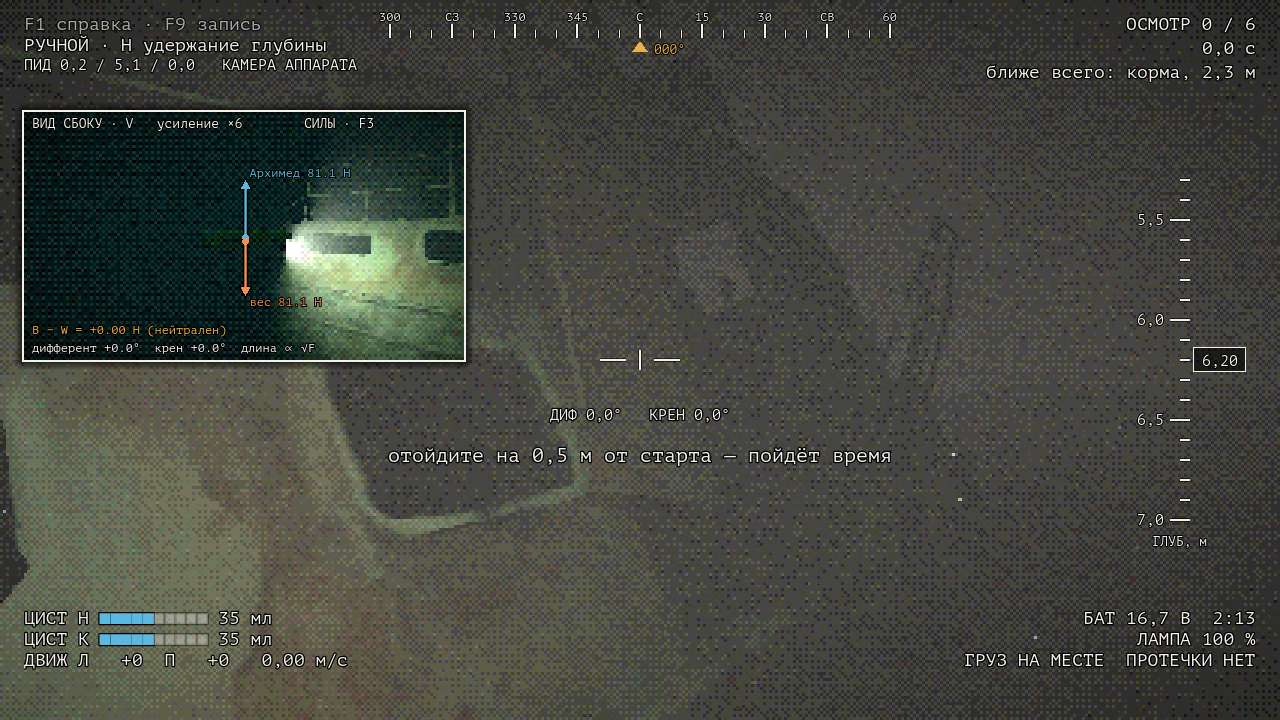
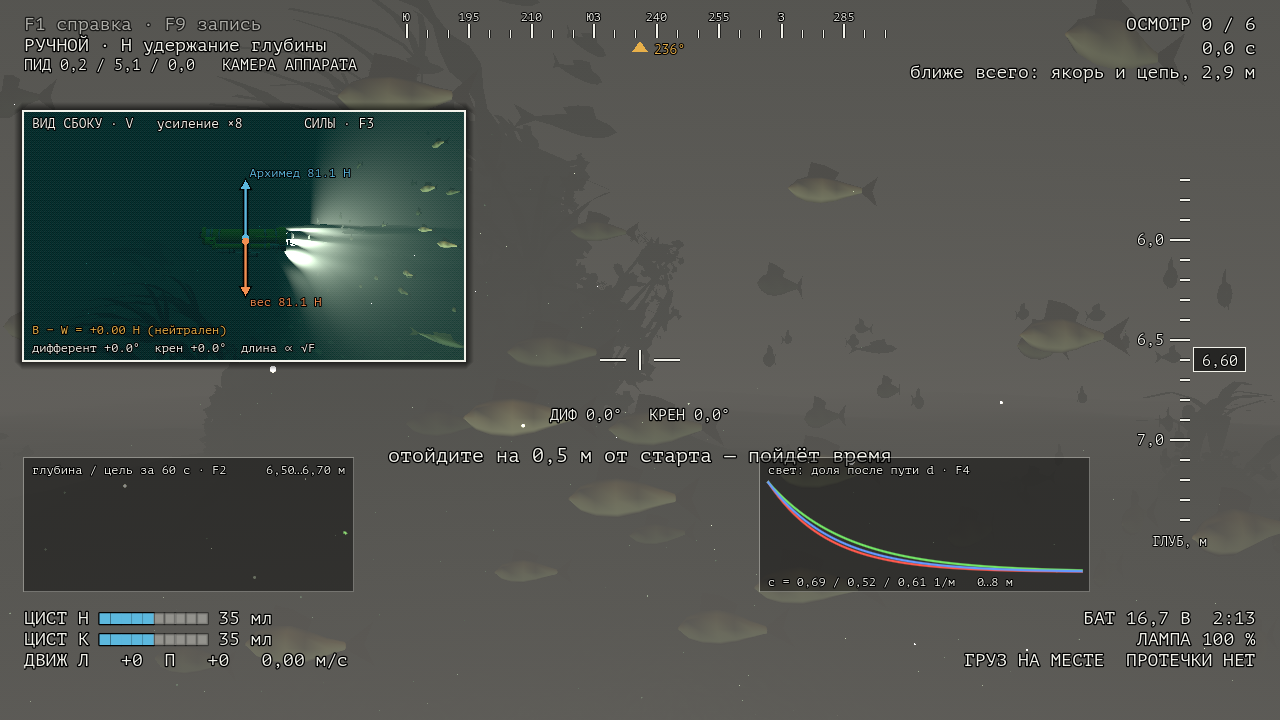
ROV-Sim 1.1.0

diff --git a/README.md b/README.md
@@ -1,6 +1,6 @@
 # ROV-Sim
 
-Версия 1.0.0 · [что нового](CHANGELOG.md)
+Версия 1.1.0 · [что нового](CHANGELOG.md)
 
 **Симулятор настоящего подводного аппарата, где у каждого числа есть источник и проверка.**
 
@@ -8,13 +8,15 @@
 
 ![Бассейн с кольцами: камера аппарата, окошко со стороны с силами](docs/screenshots/01_pool_style.png)
 
-**Скачать для Windows:** [Releases](https://github.com/kholye/ROV-Sim/releases) → `ROV-Sim-1.0.0-windows-x64.zip` (≈100 МБ), распаковать, запустить `ROV-Sim.exe`. Установка не нужна; хватает встроенной видеокарты (60 кадров/с при 1280 × 720 на Ryzen 5 5500U).
+**Скачать для Windows:** [Releases](https://github.com/kholye/ROV-Sim/releases) → `ROV-Sim-1.1.0-windows-x64.zip` (≈120 МБ), распаковать, запустить `ROV-Sim.exe`. Установка не нужна; хватает встроенной видеокарты (60 кадров/с при 1280 × 720 на Ryzen 5 5500U).
+
+**Новое в 1.1:** затонувшее судно стало рифом — обросший корпус, стаи рыб, дно с ямами размыва; граница места — кабель и мутная вода вместо края карты; строже осмотр; три режима управления (научный, автопилот, автопилот + ускорение) и WASD. Подробно — [CHANGELOG](CHANGELOG.md).
 
 ## За две минуты
 
-1. **Что делаешь.** Ведёшь аппарат через 6 колец в бассейне 12 × 25 × 5 м на время или осматриваешь затонувшее судно в мутной воде и снимаешь 6 точек. Результаты — в таблицу и CSV.
+1. **Что делаешь.** Ведёшь аппарат через 6 колец в бассейне 12 × 25 × 5 м на время или осматриваешь затонувшее судно — обросший риф в мутной северной воде — и снимаешь 6 точек вблизи, при свете лампы. Кабель 22 м: дальше — связь теряется. Результаты — в таблицу и CSV.
 2. **Почему это трудно.** Вертикальных движителей нет: глубину меняют цистерны, медленно (1,5 мл/с), поэтому погружение надо начинать заранее. Крен и боковой ход не управляются. По расчёту модели корпус без вертикальных стабилизаторов неустойчив по курсу: на ходу нос уводит, приходится подруливать.
-3. **Чем отличается от игры.** Физика — уравнения Fossen (6 степеней свободы) с массой, центрами и сопротивлением, посчитанными по 3D-модели аппарата. Её же независимо считает программа на Python; расхождение с игрой 0,00005 мм глубины за минуту. Свет считается по каналам R, G, B с поглощением и обратным рассеянием, а «хоррор-стиль» (низкое разрешение, дизеринг, зерно) — только последний проход, он выключается клавишей Tab.
+3. **Чем отличается от игры.** Физика — уравнения Fossen (6 степеней свободы) с массой, центрами и сопротивлением, посчитанными по 3D-модели аппарата. Её же независимо считает программа на Python; расхождение с игрой 0,00005 мм глубины за минуту. Свет считается по каналам R, G, B с поглощением и обратным рассеянием, а «хоррор-стиль» (низкое разрешение, дизеринг, зерно) — только последний проход, по умолчанию выключен (настройки или Tab). Для тех, кому пульт настоящего аппарата слишком труден, есть режим «автопилот»: физика та же, пульт помогает держать курс и глубину.
 4. **Чему можно верить.** Каждое число помечено: *проверено*, *подогнано* по опыту (тогда совпадение с этим опытом проверкой не считается), *оценка*. Неудачи записаны так же подробно, как успехи.
 
 ## Снимки
@@ -22,7 +24,7 @@
 | | |
 |---|---|
 | ![](docs/screenshots/02_pool_science.png) **Научный вид** (Tab): без фильтров, график глубины (F2), ослабление света по R/G/B (F4) | ![](docs/screenshots/03_pool_overview.png) **Бассейн** 12 × 25 × 5 м: раскладка колец из первой версии симулятора |
-| ![](docs/screenshots/04_wreck_rov.png) **Судно, камера аппарата**: лампа в 10 см от объектива даёт серую пелену в мутной воде — это физика, а не ошибка | ![](docs/screenshots/05_wreck_chase.png) **Судно, вид сзади**: скан настоящего судна, ил, лампа аппарата 120° |
+| ![](docs/screenshots/04_wreck_rov.png) **Судно, камера аппарата**: стая тресочки у корпуса; лампа в 10 см от объектива даёт серую пелену в мутной воде — это физика, а не ошибка | ![](docs/screenshots/05_wreck_chase.png) **Судно, вид сзади**: скан настоящего судна в обрастании (актинии, ламинария), гравий у борта, треска |
 | ![](docs/screenshots/06_lab_target.png) **Лабораторный бассейн 3 × 3 × 3 м**: мишень Холопова для проверки света | ![](docs/screenshots/07_menu.png) **Меню**: три сцены, таблица результатов, настройки |
 | ![](docs/screenshots/08_model.png) **Модель аппарата** (Blender, по фото): из неё считаются объём, центры масс и плавучести, сопротивление | ![](docs/verification/v3_pid.png) **Проверка V3**: удержание глубины в модели против опытов Дунаева |
 

diff --git a/CHANGELOG.md b/CHANGELOG.md
@@ -2,6 +2,18 @@
 
 Номер версии: `ГЛАВНАЯ.ДОПОЛНЕНИЯ.ИСПРАВЛЕНИЯ` ([семантическое версионирование](https://semver.org/lang/ru/)): исправления без новых функций увеличивают третье число, новые функции — второе, изменения, после которых старые результаты и настройки несовместимы, — первое. Номер хранится в `VERSION` и `godot/project.godot` (`application/config/version`), показывается в меню игры; у каждой версии в git есть метка `vX.Y.Z`.
 
+## 1.1.0 — 2026-11-02
+
+Место крушения стало рифом, появились режимы управления.
+
+- **Затонувшее судно.** Корпус оброс, как настоящие суда в холодных северных морях: «ковры» актиний *Metridium*, гидроиды, мягкие кораллы, губки, мидии, морские ежи и звёзды, ламинария и красные водоросли (≈5700 организмов 12 видов, водоросли колышутся). Вокруг — стаи тресочки, сайды и шпрота, треска и губаны у корпуса, камбала на иле, крабы; рыбы расступаются перед аппаратом. Дно с ямами размыва у носа и кормы, гравием и битой ракушкой, офиурами, валунами и обломками; цепь якоря выходит из клюза.
+- **Граница без края.** Аппарат на кабеле 22 м от судна обеспечения над местом крушения: дальше 14,5 м вода мутнеет, у предела видео рябит, на пределе — «связь потеряна» и выбор: начать заново или в меню. Край сцены не виден.
+- **Осмотр судна строже.** Точка засчитывается камерой аппарата, если она ближе 2 м, в центре кадра, различима (по модели света; в мутной воде с лампой ≈ до 1,7 м) и 2 с подряд; экран подсказывает «ближе / включите лампу». Таблица осмотра — только по новым правилам.
+- **Режимы управления** (настройки): научный — как настоящий пульт (по умолчанию); автопилот — та же физика, пульт плавно разгоняет ход, поворачивает с постоянной скоростью, держит курс, дифферент и глубину (E / Q — глубже / мельче); автопилот + ускорение — ещё насос цистерн ×3 и тяга ×1,5. Результаты в таблицах отдельно по режимам.
+- **Управление:** ход и поворот на WASD (стрелки тоже работают); стильный фильтр по умолчанию выключен и есть в настройках; понятнее подписи цели глубины (PgUp / PgDn).
+- **Быстрее:** у текстур включены мип-уровни — все сцены быстрее версии 1.0 (судно 124 → 142 к/с без синхронизации на Ryzen 5 5500U).
+- **Исправлено:** чёрные круги вместо дальних светильников в бассейне (ореол у самого светильника); маски цвета вершин (гравий, ржавчина бочек, ил в лабораторном бассейне) терялись при экспорте сцен.
+
 ## 1.0.0 — 2026-11-02
 
 Первая версия.
